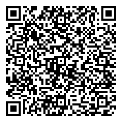
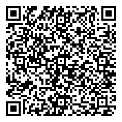
refactor: 完善体验版二维码截图

diff --git a/src/service/miniupload.service.ts b/src/service/miniupload.service.ts
@@ -48,12 +48,12 @@ export class MiniUploadService {
   async puppteerWork(url: string) {
     // launch 微信公众平台
     await this.page.goto(url, { waitUntil: 'networkidle2' });
-    
+
     // 获取登录二维码位置
     const wxLoginCode = await this.page.$('.login__type__container__scan__qrcode');
     const wxLoginCodeboundingBox = await wxLoginCode.boundingBox();
     
-    // 截取登录二维码
+    // 截取登录二维码 
     await this.page.screenshot({
         // encoding: 'base64',
         path: 'wx_login_code.png',
@@ -69,7 +69,8 @@ export class MiniUploadService {
 
     // 等待扫描登录二维码，跳转到管理页面
     await this.page.waitForNavigation();
-    
+    await this.page.waitForSelector('.menu_item');
+  
     // 选择版本管理
     const link = await this.page.click('.menu_item');
     
@@ -79,26 +80,20 @@ export class MiniUploadService {
     // 选择版本
     
     // 设为体验版
-
+    
     // 打开体验版二维码
     await this.page.click('.js_show_exp_version');
 
     // 获取体验版二维码位置 
+    await this.page.waitForSelector('.code_qrcode');
     const devMiniCode = await this.page.$('.code_qrcode');
-    const devMiniCodeBoundingBox = await devMiniCode.boundingBox();
-
+   
     // 截取体验版二维码
-    await this.page.screenshot({
+    await devMiniCode.screenshot({
         // encoding: 'base64',
         path: 'mini_dev_code.png',
-        clip: {
-            x: devMiniCodeBoundingBox.x,
-            y: devMiniCodeBoundingBox.y,
-            width: devMiniCodeBoundingBox.width,
-            height: devMiniCodeBoundingBox.height,
-        }
     });
-  
+
     // 将体验版回发给前端页面，并同步钉钉通知
     this.notify();
   
